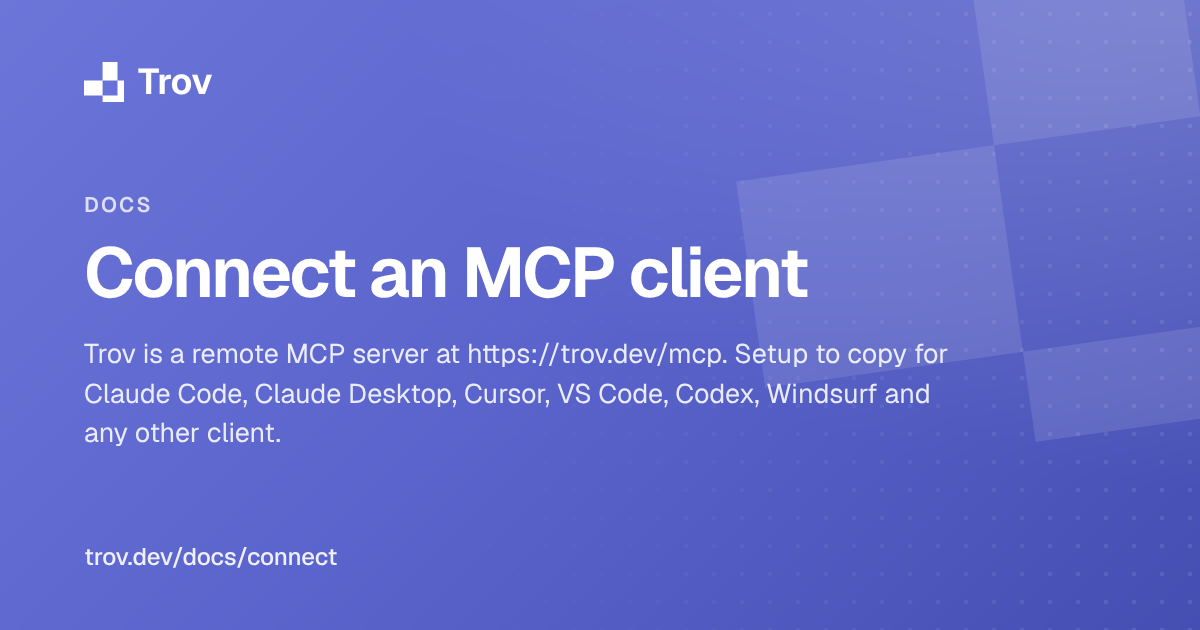
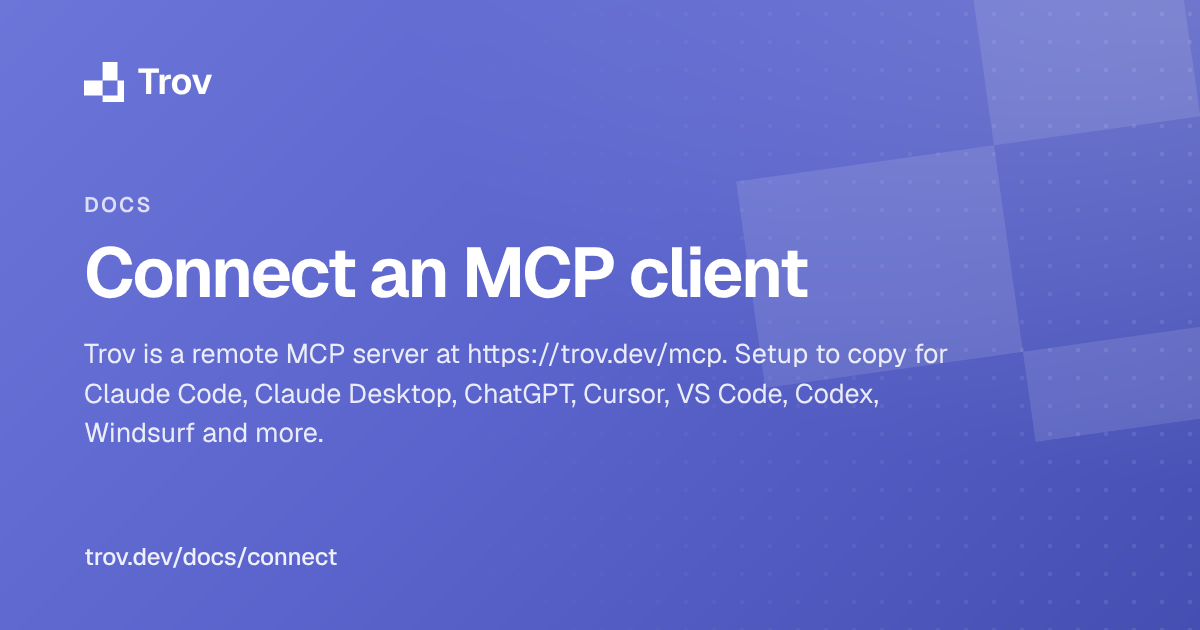
Support ChatGPT as an MCP client; prove the Codex sign-in end to end
- The Allow page treats ChatGPT (chatgpt.com, and OpenAI's review tool on
  openai.com) as a chat with no repository, so Manual is preselected, as for
  claude.ai.
- tools/list marks the read tools readOnlyHint: true (every other org tool
  false), so ChatGPT and claude.ai run reads without asking to confirm.
- The token endpoint also takes the client id from an HTTP Basic header
  (secret half ignored; every client is public), checked like a form one.
- The unknown-registration page says how to reconnect in Claude Code,
  Codex and ChatGPT.
- Docs: a ChatGPT section in Connect an MCP client, ChatGPT in the FAQ and
  the page description (OG image re-rendered), auth-identity-people.md.
- Tests: ChatGPT- and Codex-shaped sign-ins over the Worker
  (test/oauth.clients.test.ts) and the read-only set
  (test/mcp.annotations.test.ts).

Claude-Session: https://claude.ai/code/session_01TqCDDbodG1Y2HCwDcd6qze

Changed region(s): [[0.4008, 0.6032, 0.7708, 0.6635], [0.0617, 0.6635, 0.2775, 0.7238]]

diff --git a/test/oauth.clients.test.ts b/test/oauth.clients.test.ts
@@ -1,0 +1,157 @@
+// The sign-in each MCP client we document actually runs, end to end over the Worker: discovery from /mcp's
+// 401, registration (RFC 7591), the consent page, the code exchange, and a call on /mcp with the token.
+// The request shapes are the clients' own: ChatGPT's apps (a per-connector https callback on chatgpt.com,
+// the `resource` on authorize and token) and the Codex CLI (a loopback callback with a path of its own,
+// on a fresh port; an OAuth library that may send the client id in a Basic header). Claude Code's is
+// test/oauth.routes.test.ts. docs/architecture/auth-identity-people.md › MCP OAuth.
+import { describe, it, expect } from "vitest";
+import { env, SELF } from "cloudflare:test";
+import { pkce } from "../src/auth/crypto";
+import { seedPerson, cookieFor } from "./helpers/persons";
+import { ensureMember, ORG_B } from "./helpers/tenant";
+
+const ORIGIN = "https://example.com";
+const RESOURCE = `${ORIGIN}/mcp`;
+const manual = (init: RequestInit = {}) => ({ redirect: "manual" as const, ...init });
+const form = (o: Record<string, string>, headers: Record<string, string> = {}) => ({
+  method: "POST", headers: { "content-type": "application/x-www-form-urlencoded", ...headers }, body: new URLSearchParams(o).toString(),
+});
+const csrfOf = (html: string) => /name="csrf" value="([^"]+)"/.exec(html)?.[1] ?? "";
+const basic = (id: string, secret = "") => `Basic ${btoa(`${encodeURIComponent(id)}:${encodeURIComponent(secret)}`)}`;
+
+/** What the client learns before it has a token: /mcp's 401 → the resource metadata → the server's. */
+async function discover(): Promise<{ registration_endpoint: string; authorization_endpoint: string; token_endpoint: string }> {
+  const unauth = await SELF.fetch(RESOURCE, { method: "POST", headers: { "content-type": "application/json" }, body: "{}" });
+  expect(unauth.status).toBe(401);
+  const prmUrl = /resource_metadata="([^"]+)"/.exec(unauth.headers.get("www-authenticate") ?? "")?.[1];
+  expect(prmUrl).toBe(`${ORIGIN}/.well-known/oauth-protected-resource`);
+  const prm = (await (await SELF.fetch(prmUrl!)).json()) as { resource: string; authorization_servers: string[] };
+  expect(prm.resource).toBe(RESOURCE);
+  const as = await SELF.fetch(`${prm.authorization_servers[0]}/.well-known/oauth-authorization-server`);
+  return (await as.json()) as { registration_endpoint: string; authorization_endpoint: string; token_endpoint: string };
+}
+
+async function register(endpoint: string, body: Record<string, unknown>): Promise<{ client_id: string; client_secret?: string; token_endpoint_auth_method: string }> {
+  const r = await SELF.fetch(endpoint, { method: "POST", headers: { "content-type": "application/json" }, body: JSON.stringify(body) });
+  expect(r.status).toBe(201);
+  return (await r.json()) as { client_id: string; token_endpoint_auth_method: string };
+}
+
+/** GET authorize signed in → the consent page; POST its form with `choice` → the code at the redirect. */
+async function consent(authorizeUrl: string, cookie: string, choice: Record<string, string | string[]>): Promise<{ page: string; location: URL }> {
+  const page = await (await SELF.fetch(authorizeUrl, manual({ headers: { cookie } }))).text();
+  const f = new URLSearchParams(new URL(authorizeUrl).searchParams);
+  f.set("csrf", csrfOf(page)); f.set("decision", "allow");
+  for (const [k, v] of Object.entries(choice)) for (const one of [v].flat()) f.append(k, one);
+  const r = await SELF.fetch(`${ORIGIN}/oauth/authorize`, manual({ method: "POST", headers: { cookie, "content-type": "application/x-www-form-urlencoded" }, body: f.toString() }));
+  expect(r.status).toBe(302);
+  return { page, location: new URL(r.headers.get("location")!) };
+}
+
+/** One JSON-RPC call on /mcp with the token; the answer whether it comes back as JSON or as one SSE event. */
+async function mcpCall(token: string, method: string, params: Record<string, unknown> = {}): Promise<{ result?: Record<string, unknown> }> {
+  const r = await SELF.fetch(RESOURCE, {
+    method: "POST",
+    headers: { "content-type": "application/json", accept: "application/json, text/event-stream", authorization: `Bearer ${token}` },
+    body: JSON.stringify({ jsonrpc: "2.0", id: 1, method, params }),
+  });
+  expect(r.status).toBe(200);
+  const text = await r.text();
+  const data = text.trimStart().startsWith("{") ? text : text.split("\n").filter((l) => l.startsWith("data:")).map((l) => l.slice(5)).join("");
+  return JSON.parse(data) as { result?: Record<string, unknown> };
+}
+
+describe("ChatGPT (an app in developer mode)", () => {
+  it("registers its per-connector chatgpt.com callback, is offered Manual, and calls /mcp with the token", async () => {
+    await seedPerson("gpt-user");
+    await ensureMember("gpt-user", "member", ORG_B);
+    const meta = await discover();
+    const callback = "https://chatgpt.com/connector/oauth/abc123XYZ";
+    const client = await register(meta.registration_endpoint, {
+      client_name: "ChatGPT", redirect_uris: [callback, "https://chatgpt.com/connector_platform_oauth_redirect"],
+      grant_types: ["authorization_code", "refresh_token"], response_types: ["code"], token_endpoint_auth_method: "none", scope: "mcp",
+    });
+    expect(client.token_endpoint_auth_method).toBe("none");
+    expect(client.client_secret).toBeUndefined();
+
+    const { verifier, challenge } = await pkce();
+    const q = new URLSearchParams({
+      response_type: "code", client_id: client.client_id, redirect_uri: callback, code_challenge: challenge,
+      code_challenge_method: "S256", state: "gpt-state", scope: "mcp", resource: RESOURCE,
+    });
+    const cookie = await cookieFor("gpt-user");
+    const { page, location } = await consent(`${meta.authorization_endpoint}?${q}`, cookie, { mode: "manual", org: ["saplinglearn", "acme"], current: "acme" });
+    // A chat is in no repository: with two organizations, Manual is preselected all the same.
+    expect(page).toContain("ChatGPT");
+    expect(page).toMatch(/name="mode" value="manual" form="consent" checked/);
+    expect(page).not.toMatch(/name="mode" value="repo" form="consent" checked/);
+    expect(location.origin + location.pathname).toBe(callback);
+    expect(location.searchParams.get("state")).toBe("gpt-state");
+
+    const tok = await SELF.fetch(meta.token_endpoint, form({
+      grant_type: "authorization_code", code: location.searchParams.get("code")!, code_verifier: verifier,
+      redirect_uri: callback, client_id: client.client_id, resource: RESOURCE,
+    }));
+    expect(tok.status).toBe(200);
+    const t = (await tok.json()) as { access_token: string; refresh_token: string; token_type: string };
+    expect(t.token_type).toBe("Bearer");
+
+    const conn = await mcpCall(t.access_token, "tools/call", { name: "get_connection", arguments: {} });
+    const body = JSON.parse(((conn.result!.content as { text: string }[])[0]).text) as { handle: string; mode: string; organization: { slug: string } };
+    expect(body).toMatchObject({ handle: "gpt-user", mode: "manual", organization: { slug: "acme" } });
+
+    // Reads are marked read-only, so ChatGPT runs them without asking; writes are not.
+    const list = await mcpCall(t.access_token, "tools/list");
+    const tools = list.result!.tools as { name: string; annotations?: { readOnlyHint?: boolean } }[];
+    const hint = (n: string) => tools.find((x) => x.name === n)?.annotations?.readOnlyHint;
+    expect([hint("query"), hint("get_connection"), hint("create_ticket"), hint("record_session")]).toEqual([true, true, false, false]);
+
+    const again = await SELF.fetch(meta.token_endpoint, form({ grant_type: "refresh_token", refresh_token: t.refresh_token, client_id: client.client_id, resource: RESOURCE }));
+    expect(again.status).toBe(200);
+  });
+});
+
+describe("the Codex CLI", () => {
+  it("registers a loopback callback with its own path, signs in on another port, and sends its client id in a Basic header", async () => {
+    await seedPerson("codex-user");
+    const meta = await discover();
+    const registeredCb = "http://127.0.0.1:41000/callback/7f3e";
+    const client = await register(meta.registration_endpoint, {
+      client_name: "Codex", redirect_uris: [registeredCb], grant_types: ["authorization_code", "refresh_token"],
+      response_types: ["code"], token_endpoint_auth_method: "none",
+    });
+
+    const callback = "http://127.0.0.1:52817/callback/7f3e";
+    const { verifier, challenge } = await pkce();
+    const q = new URLSearchParams({
+      response_type: "code", client_id: client.client_id, redirect_uri: callback, code_challenge: challenge,
+      code_challenge_method: "S256", state: "codex-state", resource: RESOURCE,
+    });
+    const { location } = await consent(`${meta.authorization_endpoint}?${q}`, await cookieFor("codex-user"), {});
+    expect(location.origin + location.pathname).toBe(callback);
+
+    // No client_id in the form: it rides an HTTP Basic header with an empty secret.
+    const tok = await SELF.fetch(meta.token_endpoint, form({
+      grant_type: "authorization_code", code: location.searchParams.get("code")!, code_verifier: verifier, redirect_uri: callback, resource: RESOURCE,
+    }, { authorization: basic(client.client_id) }));
+    expect(tok.status).toBe(200);
+    const t = (await tok.json()) as { access_token: string; refresh_token: string };
+    const init = await mcpCall(t.access_token, "initialize", { protocolVersion: "2025-06-18", capabilities: {}, clientInfo: { name: "codex-mcp-client", version: "0.163.0" } });
+    expect((init.result!.serverInfo as { name: string }).name).toBe("trov");
+
+    // The Basic id is checked like a form one: another client's id does not refresh this token.
+    const other = await register(meta.registration_endpoint, { client_name: "Other", redirect_uris: [registeredCb] });
+    const wrong = await SELF.fetch(meta.token_endpoint, form({ grant_type: "refresh_token", refresh_token: t.refresh_token }, { authorization: basic(other.client_id) }));
+    expect(wrong.status).toBe(400);
+    expect(((await wrong.json()) as { error: string }).error).toBe("invalid_grant");
+    const right = await SELF.fetch(meta.token_endpoint, form({ grant_type: "refresh_token", refresh_token: t.refresh_token }, { authorization: basic(client.client_id) }));
+    expect(right.status).toBe(200);
+  });
+
+  it("no client id at all — neither in the form nor in a header — is invalid_request, and the code is not spent", async () => {
+    const r = await SELF.fetch(`${ORIGIN}/oauth/token`, form({ grant_type: "authorization_code", code: "c", code_verifier: "v", redirect_uri: "http://127.0.0.1:1/cb" }, { authorization: "Basic !!" }));
+    expect(r.status).toBe(400);
+    expect(((await r.json()) as { error: string }).error).toBe("invalid_request");
+    expect((await env.DB.prepare(`SELECT COUNT(*) AS n FROM oauth_codes WHERE used_at IS NOT NULL`).first<{ n: number }>())!.n).toBe(0);
+  });
+});

diff --git a/web/src/docs-content.ts b/web/src/docs-content.ts
@@ -85,8 +85,8 @@ function setup(): string {
     fence("text", PLUGIN_INSTALL),
     "Then run `/mcp`, choose **trov**, then **Authenticate**. Your browser opens Trov: choose how the connection picks an organization, then click **Allow**. The connection is listed in Settings › MCP access under Connected apps, where **Revoke** disconnects it at once.",
     CONNECTION_NOTE,
-    `Any other MCP client (Claude Desktop and claude.ai, Cursor, VS Code, Codex, Windsurf) connects to the same address, \`${MCP_URL}\`: setup to copy for each is in ${to("docs-connect", "Connect an MCP client")}.`,
-    `In a chat (claude.ai on the web, Claude Desktop) Trov is a custom connector. There is no plugin and no repository there, so the Allow page suggests **manual**: you tick the organizations it may use and where it starts. ${to("docs-connect", "Connect an MCP client")} › ${CHAT_SECTION} says what a chat can and cannot do.`,
+    `Any other MCP client (Claude Desktop and claude.ai, ChatGPT, Cursor, VS Code, Codex, Windsurf) connects to the same address, \`${MCP_URL}\`: setup to copy for each is in ${to("docs-connect", "Connect an MCP client")}.`,
+    `In a chat (claude.ai on the web, Claude Desktop, ChatGPT) Trov is a custom connector or app. There is no plugin and no repository there, so the Allow page suggests **manual**: you tick the organizations it may use and where it starts. ${to("docs-connect", "Connect an MCP client")} › ${CHAT_SECTION} says what a chat can and cannot do.`,
     "## 5. Your first session",
     [
       "1. **Start as you always do.** Before your agent touches an area the team already knows, it reads what Trov has on it (the `load-context` skill does this by itself, and lists any handoffs waiting for you).",
@@ -184,8 +184,17 @@ function connect(): string {
       "4. In a chat, ask “call `get_connection`”. It answers who you are and which organization you are in.",
     ].join("\n"),
     "On a Team or Enterprise plan, an owner adds the connector for the organization and each member connects it. The connection shows up in Trov under Settings › MCP access › Connected apps, like any other.",
+    "## ChatGPT",
+    "Trov is a **custom app** in ChatGPT on the web, added in developer mode. Like a claude.ai connector, it signs in through the browser only.",
+    [
+      "1. Open Settings › Apps › Advanced settings and turn on **Developer mode**. (On a Business or Enterprise workspace, an admin has to allow it first.)",
+      `2. Choose **Create app**, name it Trov, enter \`${MCP_URL}\` as the MCP server URL and choose **OAuth** for authentication. ChatGPT registers itself with Trov; there is no client ID or secret to fill in.`,
+      "3. Trov's sign-in opens. On the Allow page **manual** is already chosen, because a chat is in no repository. Tick the organizations the connection may use, pick the one it starts in, and click **Allow**.",
+      "4. In a chat, add Trov from the tools menu and ask “call `get_connection`”. It answers who you are and which organization you are in.",
+    ].join("\n"),
+    "ChatGPT runs Trov's read tools (search, docs, tickets, your work) without asking, and asks you to confirm each call that writes. Everything a chat can and cannot do is the same as in claude.ai (below).",
     `## ${CHAT_SECTION}`,
-    "A chat (claude.ai on the web, Claude Desktop, or any client outside a code checkout) gets all of Trov's tools, but it has no repository, no shell and none of the Claude Code plugin's skills. Nothing orients or records by itself: you ask.",
+    "A chat (claude.ai on the web, Claude Desktop, ChatGPT, or any client outside a code checkout) gets all of Trov's tools, but it has no repository, no shell and none of the Claude Code plugin's skills. Nothing orients or records by itself: you ask.",
     "**Things to ask in a first chat:**",
     [
       "- “What’s on my plate in Trov?” Your open tickets and assigned issues, and your recent pull requests (`get_my_work`).",
@@ -203,7 +212,7 @@ function connect(): string {
       "- **Recording.** “Record this chat” stages the decisions and doc changes made in it. The agent cannot see what shipped, so give it the pull request or commit to record shipped work.",
       `- **Files.** With no shell there is nothing to upload or download with, so an image, PDF or file artifact travels inside the call, up to ${INLINE_MAX}. A larger one can be linked, but not opened or uploaded. A picture you attach to the chat usually cannot be passed on to Trov. Text artifacts (HTML, Markdown, SVG, Mermaid) are sent as text.`,
     ].join("\n"),
-    "**Tell the agent once.** In a claude.ai Project, put this in the project's instructions, so every chat in it follows the same rules:",
+    "**Tell the agent once.** In a claude.ai Project or a ChatGPT project, put this in the project's instructions, so every chat in it follows the same rules:",
     fence("markdown", CHAT_SNIPPET),
     "## Cursor",
     "In `.cursor/mcp.json` (this project) or `~/.cursor/mcp.json` (every project):",

diff --git a/src/mcp.ts b/src/mcp.ts
@@ -852,6 +852,17 @@ const REPO_ARG = z.string().optional().describe(
 const ORG_ARG = z.string().optional().describe(
   "An organization's slug, to act there for THIS call only — one this connection is allowed to use (see get_connection). Omit it to act in the connection's organization.");
 
+/** The tools that only read. `tools/list` marks them `readOnlyHint: true` (MCP tool annotations; every other
+ *  org tool `false`), so a client that asks the person before every call that may write — ChatGPT, claude.ai —
+ *  runs these without asking. A tool that writes anything is not here, a use count (`get_prompt`) or a
+ *  delivered note (`link_inbox`) included (test/mcp.annotations.test.ts). */
+export const READ_ONLY_TOOLS: ReadonlySet<string> = new Set([
+  "query", "get_doc", "list_docs", "list_spaces", "get_feed", "list_tags", "get_roadmap",
+  "list_tickets", "get_ticket", "list_sprints", "get_sprint", "get_my_work", "list_people", "get_events",
+  "get_repo_dashboard", "artifact_get", "artifact_list", "list_handoffs", "get_handoff", "search_prompts",
+  "list_links", "get_connection",
+]);
+
 const scopeError = (r: ScopeRefusal): ToolOutput => toolError({ error: r.message, code: r.code, ...(r.orgs ? { orgs: r.orgs } : {}) });
 
 /** How a result names an organization. A pinned context knows only its id until asked. */
@@ -891,7 +902,7 @@ export function buildConnectionMcpServer(env: Env, conn: BearerConnection, opts:
   for (const [name, def] of toolsFor(template)) {
     const ownRepo = "repo" in def.shape; // upload_asset: `repo` is also the page's own field
     const shape = { ...def.shape, ...(ownRepo ? {} : { repo: REPO_ARG }), org: ORG_ARG };
-    server.tool(name, def.description, shape, async (args: Record<string, unknown>, extra: unknown) => {
+    server.tool(name, def.description, shape, { readOnlyHint: READ_ONLY_TOOLS.has(name) }, async (args: Record<string, unknown>, extra: unknown) => {
       const target = await resolveCall(conn, args);
       if (!target.ok) return scopeError(target);
       try {
@@ -919,6 +930,7 @@ export function buildConnectionMcpServer(env: Env, conn: BearerConnection, opts:
     "get_connection",
     "Who and WHERE this connection is — call it first in a session and tell the person which organization you are in. Returns { handle, mode, organization, role, current, organizations, unresolved }. `mode` is \"manual\" (the connection acts in its `current` organization; `organizations` are the ones it is allowed to use — switch with switch_org, or pass `org` on one call) or \"repo\" (it follows the repository: every call passes `repo`, and acts in the organization that has that repository connected; `organizations` are the ones it could reach). `organization` ({ slug, name }) is where a call with THESE arguments would act, with your `role` there — pass the same `repo` / `org` you will pass to the other tools. `organization: null` means such a call would read and write NOTHING; `unresolved` ({ code, message }) says why and what to do. Read-only: it touches no organization's data and changes nothing.",
     { repo: REPO_ARG, org: ORG_ARG },
+    { readOnlyHint: true },
     async (args: { repo?: string; org?: string }) => runTool(async () => {
       const target = await resolveCall(conn, args);
       return {

diff --git a/src/auth/oauth-routes.ts b/src/auth/oauth-routes.ts
@@ -68,6 +68,21 @@ function constantTimeEqual(a: string, b: string): boolean {
   return d === 0;
 }
 
+/** The client id from an HTTP Basic `Authorization` header (RFC 6749 §2.3.1: the form-encoded id, a colon,
+ *  the secret), or null. Every Trov client is public, so there is no secret to check — the password half is
+ *  ignored — but an OAuth library that defaults to Basic sends the id this way, and it is then checked
+ *  against the code or refresh token exactly like a form `client_id`. */
+function basicClientId(header: string | undefined): string | null {
+  const m = /^Basic\s+([A-Za-z0-9+/=]+)\s*$/i.exec(header ?? "");
+  if (!m) return null;
+  try {
+    const decoded = atob(m[1]);
+    const colon = decoded.indexOf(":");
+    const id = decodeURIComponent((colon < 0 ? decoded : decoded.slice(0, colon)).replace(/\+/g, " "));
+    return id || null;
+  } catch { return null; }
+}
+
 /** The signed-in person for authorize. DEV_LOGIN mirrors sessionGate's local-dev
  *  bypass (inert in prod), so the flow can be exercised over `wrangler dev`. */
 async function consentSession(c: Context<AppEnv>): Promise<{ id: string; handle: string } | null> {
@@ -153,15 +168,18 @@ export function buildOAuthApp(deps: OAuthDeps = {}): Hono<AppEnv> {
   o.post("/oauth/token", async (c) => {
     const p = await params(c);
     try {
+      // The form's client_id, else an HTTP Basic header's (`basicClientId`).
+      const clientId = p.get("client_id") || basicClientId(c.req.header("authorization"));
       const grant = p.get("grant_type");
       if (grant === "authorization_code") {
+        if (!clientId) throw new OAuthError("invalid_request", "client_id is required");
         return json(c, await exchangeAuthorizationCode(c.var.p, {
           code: need(p, "code"), code_verifier: need(p, "code_verifier"), redirect_uri: need(p, "redirect_uri"),
-          client_id: need(p, "client_id"), resource: p.get("resource"),
+          client_id: clientId, resource: p.get("resource"),
         }, oauthOrigin(c.req.url), now()));
       }
       if (grant === "refresh_token") {
-        return json(c, await refreshAccessToken(c.var.p, { refresh_token: need(p, "refresh_token"), client_id: p.get("client_id") }, now()));
+        return json(c, await refreshAccessToken(c.var.p, { refresh_token: need(p, "refresh_token"), client_id: clientId }, now()));
       }
       throw new OAuthError("unsupported_grant_type", "grant_type must be authorization_code or refresh_token");
     } catch (e) {

diff --git a/test/mcp.annotations.test.ts b/test/mcp.annotations.test.ts
@@ -1,0 +1,34 @@
+// `readOnlyHint` on tools/list (src/mcp.ts READ_ONLY_TOOLS): a client that asks the person before every
+// call that may write (ChatGPT, claude.ai) runs the reads without asking. A tool marked read-only must never
+// write — a use count or a delivered note included — so the list is held here by name.
+import { describe, it, expect } from "vitest";
+import { Client } from "@modelcontextprotocol/sdk/client/index.js";
+import { InMemoryTransport } from "@modelcontextprotocol/sdk/inMemory.js";
+import { buildTrovMcpServer, READ_ONLY_TOOLS } from "../src/mcp";
+import { catalogTenant } from "../src/data/context";
+import type { Env } from "../src/env";
+
+async function listed(): Promise<{ name: string; annotations?: { readOnlyHint?: boolean } }[]> {
+  const server = buildTrovMcpServer({} as Env, catalogTenant("admin"), { origin: "https://example.com", orgSlug: null });
+  const client = new Client({ name: "t", version: "1" });
+  const [a, b] = InMemoryTransport.createLinkedPair();
+  await Promise.all([server.connect(a), client.connect(b)]);
+  try {
+    return (await client.listTools()).tools;
+  } finally {
+    await client.close();
+    await server.close();
+  }
+}
+
+describe("MCP tool annotations", () => {
+  it("exactly the read tools are read-only; every other org tool says it is not", async () => {
+    const tools = await listed();
+    const names = tools.map((t) => t.name);
+    expect([...READ_ONLY_TOOLS].filter((n) => !names.includes(n))).toEqual([]);
+    expect(tools.filter((t) => t.annotations?.readOnlyHint === true).map((t) => t.name).sort()).toEqual([...READ_ONLY_TOOLS].sort());
+    for (const n of ["get_prompt", "link_inbox", "switch_org", "claim_handoff", "create_ticket", "propose_doc_update", "record_session", "update_plan"]) {
+      expect(tools.find((t) => t.name === n)?.annotations?.readOnlyHint, n).not.toBe(true);
+    }
+  });
+});

diff --git a/test/mcp.connection-scope.test.ts b/test/mcp.connection-scope.test.ts
@@ -651,8 +651,9 @@ describe("the consent page — how the connection picks an organization", () => 
     const many = Array.from({ length: 6 }, (_, i) => ({ slug: `org-${i}`, name: `Org ${i}` }));
     expect(defaultConsentChoice(many)).toEqual({ mode: "repo", orgs: ["org-0"], current: "org-0" });
     expect(defaultConsentChoice(three).orgs).toEqual(["acme", "saplinglearn", "third"]);
-    // An app in a browser tab (claude.ai) is in no repository: Manual is preselected and recommended.
+    // An app in a browser tab (claude.ai, ChatGPT) is in no repository: Manual is preselected and recommended.
     expect([isWebClient("claude.ai"), isWebClient("Claude.com"), isWebClient("app.claude.ai"), isWebClient("localhost"), isWebClient("notclaude.ai")]).toEqual([true, true, true, false, false]);
+    expect([isWebClient("chatgpt.com"), isWebClient("platform.openai.com"), isWebClient("chat.openai.com"), isWebClient("notchatgpt.com"), isWebClient("127.0.0.1")]).toEqual([true, true, true, false, false]);
     expect(defaultConsentChoice(three, true)).toEqual({ mode: "manual", orgs: ["acme", "saplinglearn", "third"], current: "acme" });
     const onWeb = consentPage({ ...base, redirectHost: "claude.ai", orgs: three });
     expect(onWeb).toMatch(/name="mode" value="manual" form="consent" checked/);

diff --git a/web/src/site-questions.ts b/web/src/site-questions.ts
@@ -26,7 +26,7 @@ export function productQuestions(): PricingQuestion[] {
     },
     {
       q: "Does it work with Claude Code, Cursor and other MCP clients?",
-      a: `Yes. Trov is a remote MCP server at ${SITE_ORIGIN}/mcp, over Streamable HTTP. A client that supports MCP's OAuth sign-in finds everything it needs on its own and opens Trov in your browser: Claude Code, Claude Desktop and claude.ai, VS Code, Codex, and recent versions of Cursor. A client that cannot sign in can send a Trov token you already have as a header. Claude Code also has a plugin with the skills that run the loop. <a href="${pagePath("docs-connect")}">Setup for each client</a>.`,
+      a: `Yes. Trov is a remote MCP server at ${SITE_ORIGIN}/mcp, over Streamable HTTP. A client that supports MCP's OAuth sign-in finds everything it needs on its own and opens Trov in your browser: Claude Code, Claude Desktop and claude.ai, ChatGPT (as an app in developer mode), VS Code, Codex, and recent versions of Cursor. A client that cannot sign in can send a Trov token you already have as a header. Claude Code also has a plugin with the skills that run the loop. <a href="${pagePath("docs-connect")}">Setup for each client</a>.`,
     },
   ];
 }

diff --git a/test/site-pages.test.ts b/test/site-pages.test.ts
@@ -154,7 +154,7 @@ describe("the built documents", () => {
       "/refunds": ["<h1 class=\"site-legal-h\">Refund and Cancellation Policy</h1>", "How to cancel</span>", "No refunds for partial periods."],
       "/404": ["Page not found", "Go to the home page"],
       "/docs/setup": ['<h1 class="site-legal-h">Set up Trov</h1>', "<h2>1. Sign in</h2>", "/plugin install trov@trov"],
-      "/docs/connect": ["<h2>Cursor</h2>", "<h2>VS Code</h2>", "<h2>OpenAI Codex CLI</h2>", "<h2>Windsurf</h2>", "claude mcp add --transport http --scope user trov https://trov.dev/mcp"],
+      "/docs/connect": ["<h2>Cursor</h2>", "<h2>VS Code</h2>", "<h2>ChatGPT</h2>", "<h2>OpenAI Codex CLI</h2>", "<h2>Windsurf</h2>", "claude mcp add --transport http --scope user trov https://trov.dev/mcp"],
       "/docs/concepts": ["<h2>Live, staged, unpromoted, draft</h2>", "<code>staged_pending</code>"],
       "/docs/mcp-tools": ['<h3 id="query"><code>query</code></h3>', '<h3 id="update_plan"><code>update_plan</code></h3>', "<h2>Errors</h2>"],
       "/docs/changelog": ['<h1 class="site-legal-h">Changelog</h1>'],

diff --git a/src/auth/oauth-pages.ts b/src/auth/oauth-pages.ts
@@ -163,9 +163,11 @@ export const CONSENT_TICK_ALL_MAX = 4;
 
 export interface ConsentChoice { mode: "manual" | "repo"; orgs: string[]; current: string }
 
-/** Where a client that runs in a browser tab sends the person back: claude.ai's custom connectors. Such
- *  an app has no code checkout, so "the repository you are in" means nothing to it. */
-const WEB_CLIENT_HOSTS = ["claude.ai", "claude.com"];
+/** Where a client that runs in a browser tab sends the person back: claude.ai's custom connectors, and
+ *  ChatGPT's apps (`chatgpt.com/connector/oauth/<id>`, the older `chatgpt.com/connector_platform_oauth_redirect`,
+ *  and OpenAI's own review tool on `platform.openai.com`). Such an app has no code checkout, so "the
+ *  repository you are in" means nothing to it. */
+const WEB_CLIENT_HOSTS = ["claude.ai", "claude.com", "chatgpt.com", "openai.com"];
 export const isWebClient = (redirectHost: string): boolean => {
   const host = redirectHost.toLowerCase();
   return WEB_CLIENT_HOSTS.some((h) => host === h || host.endsWith(`.${h}`));

diff --git a/src/auth/oauth.ts b/src/auth/oauth.ts
@@ -191,7 +191,7 @@ export async function checkAuthorizeRequest(p: PlatformContext, q: URLSearchPara
   const clientId = q.get("client_id") ?? "";
   const redirect = q.get("redirect_uri") ?? "";
   const client = clientId ? await getClient(p, clientId) : null;
-  if (!client) return { ok: false, kind: "page", message: "Trov doesn't recognise this app's registration. In Claude Code, run /mcp, choose trov → Clear authentication, then Authenticate again." };
+  if (!client) return { ok: false, kind: "page", message: "Trov doesn't recognise this app's registration. Connect the app to Trov again: in Claude Code, run /mcp, choose trov → Clear authentication, then Authenticate; in Codex, run codex mcp login trov; in ChatGPT, delete the Trov app and add it again." };
   if (!redirectMatches(client.redirect_uris, redirect)) {
     return { ok: false, kind: "page", message: "This app asked to return to an address it never registered, so Trov won't send you there." };
   }

diff --git a/test/oauth.core.test.ts b/test/oauth.core.test.ts
@@ -150,7 +150,7 @@ describe("checkAuthorizeRequest", () => {
     const unknown = await checkAuthorizeRequest(platformCtx(), authQuery({ ...c, client_id: "nope" }, challenge), ORIGIN);
     expect(unknown).toMatchObject({
       ok: false, kind: "page",
-      message: "Trov doesn't recognise this app's registration. In Claude Code, run /mcp, choose trov → Clear authentication, then Authenticate again.",
+      message: "Trov doesn't recognise this app's registration. Connect the app to Trov again: in Claude Code, run /mcp, choose trov → Clear authentication, then Authenticate; in Codex, run codex mcp login trov; in ChatGPT, delete the Trov app and add it again.",
     });
     const q = authQuery(c, challenge); q.set("redirect_uri", "https://evil.example/cb");
     expect(await checkAuthorizeRequest(platformCtx(), q, ORIGIN)).toMatchObject({ ok: false, kind: "page" });

diff --git a/shared/site-pages.ts b/shared/site-pages.ts
@@ -108,7 +108,7 @@ export const SITE_PAGES: readonly SitePage[] = [
   {
     key: "docs-connect", path: "/docs/connect", kind: "docs", indexed: true, markdown: "/docs/connect.md", nav: "Connect a client",
     title: `Connect an MCP client · ${SITE_NAME} docs`,
-    description: "Trov is a remote MCP server at https://trov.dev/mcp. Setup to copy for Claude Code, Claude Desktop, Cursor, VS Code, Codex, Windsurf and any other client.",
+    description: "Trov is a remote MCP server at https://trov.dev/mcp. Setup to copy for Claude Code, Claude Desktop, ChatGPT, Cursor, VS Code, Codex, Windsurf and more.",
     image: { path: "/og/docs-connect.png", alt: `${SITE_NAME} docs: connect an MCP client.` },
   },
   {
